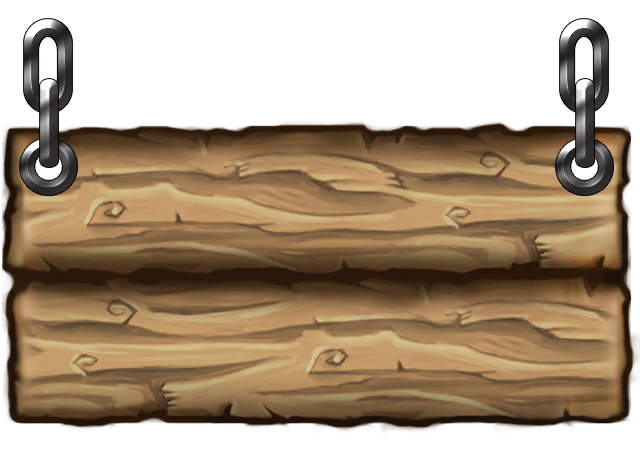
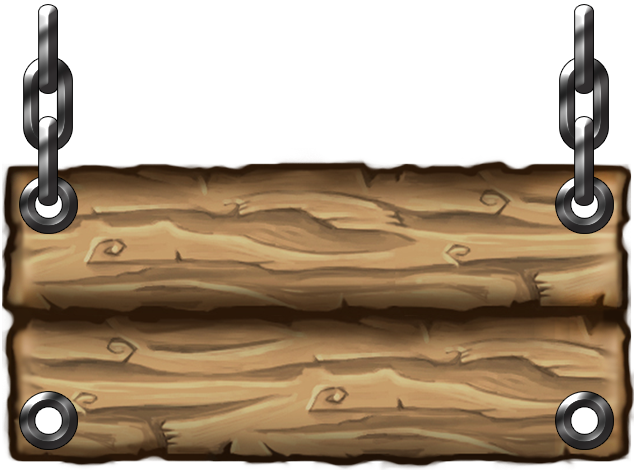
the menu is looking fockin sweet

diff --git a/js/menuUtils.js b/js/menuUtils.js
@@ -6,10 +6,11 @@
 
 function createMenu() {
 	resetBoard();
-	var button1 = game.add.sprite(245, 270, 'menuButtonSprite');
-	var button2 = game.add.sprite(245, 360, 'menuButtonSprite');
-	var button3 = game.add.sprite(245, 450, 'menuButtonSprite');
-	var button4 = game.add.sprite(245, 540, 'menuButtonSprite');
+	header = game.add.sprite(114,-20,'header');
+	var button1 = game.add.sprite(252, 265, 'menuButtonSprite');
+	var button2 = game.add.sprite(252, 365, 'menuButtonSprite');
+	var button3 = game.add.sprite(252, 465, 'menuButtonSprite');
+	var button4 = game.add.sprite(252, 565, 'menuLowerButtonSprite');
 	var resetButtonSprite = game.add.sprite(30, 850, 'resetButtonSprite');
  	
 
@@ -37,6 +38,8 @@ function createMenu() {
 function showMenu() {
 	resetBoard();
 
+	header.alpha = true;
+
 	menuButton1.buttonSprite.inputEnabled = true;
 	menuButton1.buttonSprite.alpha = true;
 
@@ -54,6 +57,8 @@ function showMenu() {
 }
 
 function hideMenu() {
+	header.alpha = false;
+
 	menuButton1.buttonSprite.inputEnabled = false;
 	menuButton1.buttonSprite.alpha = false;
 

diff --git a/js/assetsLoader.js b/js/assetsLoader.js
@@ -24,7 +24,10 @@ game.load.image('buttonl2', 'assets/button_level_2_96_48.png');
 game.load.image('buttonl3', 'assets/button_level_3_96_48.png');
 game.load.image('buttonl4', 'assets/button_level_4_96_48.png');
 
-game.load.image('menuButtonSprite', 'assets/menu/menuButton_150_105.png');
+game.load.image('header', 'assets/menu/menu_wood_chains_header.png');
+game.load.image('menuLowerButtonSprite', 'assets/menu/menuLowerButton_150_111.png');
+game.load.image('menuUpperButtonSprite', 'assets/menu/menuUpperButton_150_138.png');
+game.load.image('menuButtonSprite', 'assets/menu/menuButton_150_111.png');
 game.load.image('menuButtonWood2', 'assets/menu/menuButton_200_141.png');
 game.load.image('resetButtonSprite', 'assets/menu/menuButtonRestart_150_105.png');
 }

diff --git a/js/gameUtils.js b/js/gameUtils.js
@@ -18,17 +18,13 @@ function readLevelsFromFile(fileName) {
 	var fooBarrelSprite;
 	var fooBarrelType;
 	var fooVisible;
-	//console.log(fileText);
 	for(var i = 0; i < TEST_CONSTANT; i++) {
 
 		for(var j = 0; j < TEST_CONSTANT*2; j++)
 		{
 			if(j%2 == 0) {
 				colCounter++;
-				//console.log(colCounter);
 			}
-				
-			//console.log(fileText[i][j] + fileText[i][j+1]);
 			
 			sign = fileText[i][j];
 			canSee = 's' == fileText[i][j+1] ? true : false;

diff --git a/index.html b/index.html
@@ -34,8 +34,8 @@ function preload() {
 function create() {
 
 	console.log('create');
-
     game.add.sprite(0,0, 'background');
+    
 	bClick = game.add.audio('sfx');
 
     text = game.add.text(250, 16, '', { fill: '#ffffff' });

diff --git a/js/barrelFunctions.js b/js/barrelFunctions.js
@@ -191,7 +191,7 @@ function moveRowRight (tmpBarrel) {
         }
     
     }
-    uppdateBarrelVisibility(row, false/*this is row*/);
+    uppdateBarrelVisibility(row, false);
 
 }
 function moveRowLeft (tmpBarrel) {

diff --git a/js/variables.js b/js/variables.js
@@ -34,3 +34,4 @@ var menuButton1;
 var menuButton2;
 var menuButton3;
 var menuButton4;
+var header;
